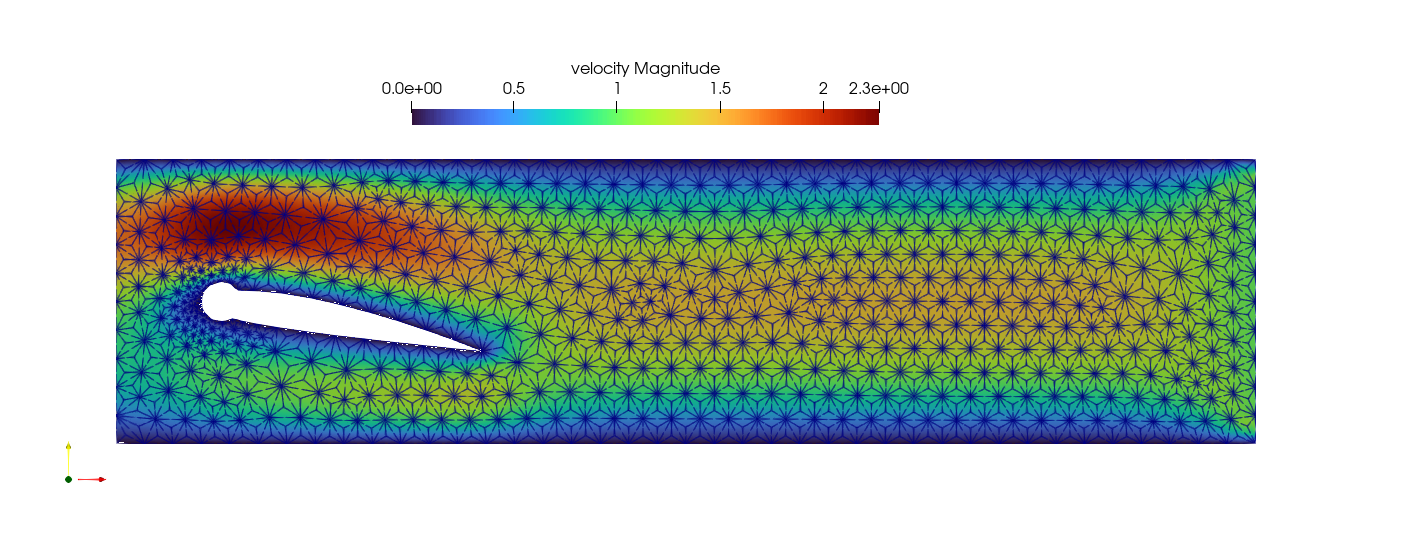
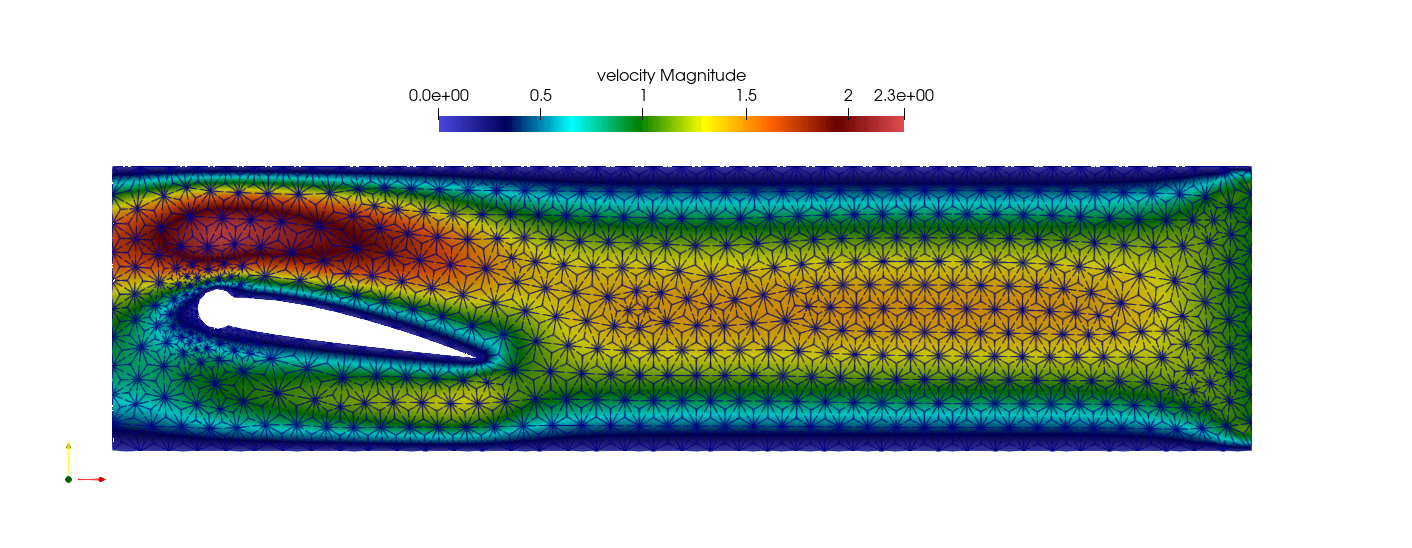
More on the draft

diff --git a/main.tex b/main.tex
@@ -2,7 +2,6 @@
 \usetheme{Frankfurt}
 \usepackage[utf8]{inputenc}
 \usepackage{charter}
-\usepackage{tikz}
 \usepackage{graphicx}
 \usepackage{amsmath}
 \usepackage{amssymb}
@@ -12,13 +11,16 @@
 \usepackage{mathtools}
 \usepackage{physics}
 \usepackage{caption}
+\usepackage{tikz}
+\usepackage{tikz-cd}
 \captionsetup[figure]{labelformat=empty}
 \mathtoolsset{showonlyrefs}
 \beamertemplatenavigationsymbolsempty
 
 \let\vec\bm
 
-
+\usepackage{tikzit}
+\input{main.tikzstyles}
 
 \pgfdeclareimage[width=\paperwidth]{titlebackground}{Images/title-slide-background.png}
 \setbeamerfont{subtitle}{size=\tiny}
@@ -229,56 +231,6 @@
 		\titlepage
 	\end{frame}
 	\begin{frame}[plain]
-		\begin{picture}(0,0)
-			\put(278,0){%
-				\pgfuseimage{ngslogo}
-			}
-			\put(-8,-5){%
-				\rule{325pt}{0.4pt}
-			}
-		\end{picture}
-		\frametitle{NETGEN}
-		$\newline$
-		$\newline$
-		NETGEN is an advancing front 2D/3D-mesh generator, with many interesting features.
-		$\newline$
-		$\newline$
-		\begin{minipage}{0.58\textwidth}
-			\begin{itemize}
-				\item[\color{oxfordblue}$\blacktriangleright$] The geometry we intend to mesh can be described by a \textbf{Constructive Solid Geometry} (CSG), in particular we can use \textbf{Opencascade} to describe our geometry.
-				\item[\color{oxfordblue}$\blacktriangleright$] It is able to construct isoparametric meshes, which conform to the geometry.
-			\end{itemize}
-		\end{minipage}
-		\qquad
-		\begin{minipage}{0.3\textwidth}
-			\begin{figure}
-				\centering
-				\includegraphics[scale=1.]{Figures/Schoeberl.jpg}
-				\begin{center}
-					\qquad\small Joachim Sc\"{o}berl
-				\end{center}
-			\end{figure}
-			\vspace{0.3cm}
-		\end{minipage}
-		\begin{picture}(0,0)
-			\put(-308,-75){%
-				\rule{325pt}{0.4pt}
-			}
-			\put(-308,-91){%
-				\pgfuseimage{mathslogo}
-			}
-			\put(-228,-91){%
-				\color{oxfordblue}\tiny\insertshortdate
-			}
-			\put(-168,-91){%
-				\color{oxfordblue}\tiny\insertshorttitle
-			}
-			\put(9,-91){%
-				\color{oxfordblue}\tiny\insertframenumber
-			}
-		\end{picture}
-	\end{frame}
-	\begin{frame}[plain]
 		\frametitle{NETGEN}
 		\ngshead
 		$\newline$
@@ -288,7 +240,7 @@
 		$\newline$
 		\begin{minipage}{0.58\textwidth}
 			\begin{itemize}
-				\item[\color{oxfordblue}$\blacktriangleright$] The geometry we intend to mesh can be described by a \textbf{Constructive Solid Geometry} (CSG), in particular we can use \textbf{Opencascade} to describe our geometry.
+				\item[\color{oxfordblue}$\blacktriangleright$] The geometry we intend to mesh can be described by \textbf{Constructive Solid Geometry} (CSG), in particular we can use \textbf{Opencascade} to describe our geometry.
 				\item[\color{oxfordblue}$\blacktriangleright$] It is able to construct isoparametric meshes, which conform to the geometry.
 			\end{itemize}
 		\end{minipage}
@@ -452,19 +404,19 @@
 	\begin{frame}
 		\frametitle{Stokes flow -- UFL}
 		$\newline$
-		\lstinputlisting[language=python,firstline=26,lastline=30]{Examples/scottVogelius.py}
+		\lstinputlisting[language=python,firstline=27,lastline=31]{Examples/scottVogelius.py}
 	\end{frame}
 	\begin{frame}
 		\frametitle{Stokes flow -- Scott--Vogelius element}
 		$\newline$
 		$\newline$
-		The first element we will use is the Scott--Vogelius pair, which is a mixed finite element of order $k$ for the velocity and order $k-1$ for the pressure.
+		We can use the Scott--Vogelius pair, which is a mixed finite element of order $k$ for the velocity and order $k-1$ for the pressure.
 		Such an element is inf-sup stable for $k \geq 2$, under certain assumptions on the mesh. Such pair is \textbf{divergence-free}.
 		\begin{minipage}{0.75\textwidth}
 			$\newline$	
 			When $k=2$ we need \textbf{Alfeld splits}.
 			\lstinputlisting[language=python,firstline=17,lastline=19]{Examples/scottVogelius.py}
-			\lstinputlisting[language=python,firstline=23,lastline=25]{Examples/scottVogelius.py}
+			\lstinputlisting[language=python,firstline=24,lastline=26]{Examples/scottVogelius.py}
 		\end{minipage}
 		\begin{minipage}{0.2\textwidth}
 			\begin{figure}
@@ -494,7 +446,7 @@
 		$\newline$
 		$\newline$
 		\begin{minipage}{0.8\textwidth}
-			\lstinputlisting[language=python,firstline=23,lastline=25]{Examples/hoodTaylor.py}
+			\lstinputlisting[language=python,firstline=24,lastline=26]{Examples/hoodTaylor.py}
 			\textbf{We lose the point-wise divergence-free property!}
 			This is not an issue because the same would happen for Scott-Vogelius on curved meshes.
 		\end{minipage}
@@ -553,7 +505,7 @@
 				\end{bmatrix}
 				\begin{bmatrix}
 					\hat{A}^{-1}& 0\\
-					0 & \hat{M}^{-1}
+					0 & -\nu \hat{M}^{-1}
 				\end{bmatrix}
 				\begin{bmatrix}
 					I & 0\\
@@ -561,7 +513,7 @@
 				\end{bmatrix}
 			\end{equation}
 			where $M$ is the mass matrix.
-			\lstinputlisting[language=python,firstline=42,lastline=46]{Examples/multigrid.py}
+			\lstinputlisting[language=python,firstline=43,lastline=47]{Examples/multigrid.py}
 		\end{minipage}
 		\begin{minipage}{0.28\textwidth}
 			\begin{figure}
@@ -606,5 +558,135 @@
 			 & - (p,\nabla \cdot \vec{v})_0 + \frac{\gamma}{2}(\nabla \cdot \vec{u},\nabla \cdot \vec{v})_0 &= (\vec{f},\vec{v})_0\\
 		\end{align*}
 		and verifying the weak divergence free constraint $(\nabla \cdot \vec{u},q)_0 = 0$, for all $(\vec{v},q) \in V_h \times Q_h$.
+	\end{frame}
+	\begin{frame}
+		\frametitle{Navier-Stokes flow -- Fieldsplit Schour preconditioner}
+		$\newline$
+		$\newline$
+		The linearized version of the Navier-Stokes equations can be written in matrix form as 
+		\vspace{-0.3cm}
+		\begin{equation}
+			\begin{bmatrix}
+				A+\gamma B^TWB& B^T \\
+				B & 0
+			\end{bmatrix}
+			\begin{bmatrix}\vec{u} \\p\end{bmatrix}=\begin{bmatrix}\vec{f} \\0\end{bmatrix}
+		\end{equation}
+		We choose as preconditioner the \textbf{fieldsplit Schur preconditioner}, i.e.
+		\vspace{-0.3cm}
+		\begin{equation}
+			\begin{bmatrix}
+				I & -\hat{A}_\gamma^{-1} B^T\\
+				0 & I
+			\end{bmatrix}
+			\begin{bmatrix}
+				\hat{A}_\gamma^{-1}& 0\\
+				0 & \hat{S}_\gamma^{-1}
+			\end{bmatrix}
+			\begin{bmatrix}
+				I & 0\\
+				-BA_\gamma^{-1} & I
+			\end{bmatrix}
+		\end{equation}
+		\begin{equation}
+			A_\gamma = A+\gamma B^TWB 	\qquad  S_\gamma = -BA_\gamma^{-1}B^T.
+		\end{equation}
+		In this case, we notice that independently of the Reynolds numbers $S_\gamma\sim - (\nu+\gamma)^{-1} M$.
+	\end{frame}
+	\begin{frame}{Navier-Stokes flow -- Augmented Lagrangian}
+		$\newline$
+		\begin{itemize}
+			\item [\color{oxfordblue}$\blacktriangleright$] The augmented Lagrangian term helps enforce the divergence-free constraint, and makes the scheme pressure robuts.
+			\item [\color{oxfordblue}$\blacktriangleright$] We can use as preconditioner
+			\begin{equation}
+				\begin{bmatrix}
+					I & -\hat{A}_\gamma^{-1} B^T\\
+					0 & I
+				\end{bmatrix}
+				\begin{bmatrix}
+					\hat{A}_\gamma^{-1}& 0\\
+					0 & -(\nu+\gamma)M^{-1}
+				\end{bmatrix}
+				\begin{bmatrix}
+					I & 0\\
+					-BA_\gamma^{-1} & I
+				\end{bmatrix}
+			\end{equation}
+			\item[\color{oxfordblue}$\blacktriangleright$] How do we compute $\hat{A}_\gamma^{-1}$ efficiently ? Can we adopt a multigrid approach ?
+		\end{itemize}
+	\end{frame}
+	\begin{frame}
+		\frametitle{Subspace correction methods for nearly singular
+problems}
+		$\newline$
+		$\newline$
+		To compute $\hat{A}_\gamma^{-1}$ we can use a subspace correction method.
+		We decompose the space $V_h$ as follows:
+		\vspace{-0.3cm}
+		\begin{equation}
+			V_h = \sum_{i=1} V_i.
+		\end{equation}
+		We consider a coarse space $V_H$ and the projection and injection operators:
+		\vspace{-0.3cm}
+		\begin{equation}
+			P_H : V_H \rightarrow V_h, \qquad I : V_h \rightarrow V_i.
+		\end{equation}
+		We then consider as smoother the additive Schwarz preconditioner defined as:
+		\begin{equation}
+			\hat{A}_\gamma^{-1} = P_H A_{\gamma,H}^{-1} P_H^T + \sum_{i=1} I_i A_{\gamma,i}^{-1} I_i^T.
+		\end{equation}
+	\end{frame}
+	\begin{frame}
+		\frametitle{Subspace correction methods for nearly singular
+problems}
+		$\newline$
+		\begin{block}{Robust relaxetion}
+			We need the discrete kernel,
+			\vspace{-0.3cm}
+			\begin{equation}
+				\mathbb{K}_h =  \{\vec{v} \in V_h : B\vec{v} = 0\},
+			\end{equation}
+			to decompose in a \textbf{stable} way as follows:
+			\vspace{-0.3cm}
+			\begin{equation}
+				\mathbb{K}_h = \sum_{i=1} \mathbb{K}_h\cap V_i.
+			\end{equation}
+		\end{block}
+	\end{frame}
+	\begin{frame}[fragile]
+		\frametitle{Robust relaxation -- Hood--Taylor}
+		\begin{equation*}
+			\begin{tikzcd}[row sep=huge]
+			0 \arrow[r,""] & \Big[H^2(\Omega)\Big]^2 \arrow[r,"\curl"] \arrow[d]& \Big[H^1_0(\Omega)\Big]^2 \arrow[r,"\div"] \arrow[d]& L^2_0(\Omega) \arrow[r,""]\arrow[d] & 0\\
+			0 \arrow[r,""] & \Big[\mathbb{P}^4(\mathcal{T}_h)\Big]^2 \arrow[r,"\curl"] & \Big[\mathbb{P}^3(\mathcal{T}_h)\Big]^2 \arrow[r,"\div"] & \mathbb{P}^2_{disc}(\mathcal{T}_h) \arrow[r,""] & 0\\
+			\end{tikzcd}
+		\end{equation*}
+		\vspace{-2cm}
+		\begin{figure}[h]
+			\centering
+			\hspace{1cm}\scalebox{0.45}{\tikzfig{Figures/DoF}}
+		\end{figure}
+	\end{frame}
+	\begin{frame}
+		\frametitle{Robust prolongation -- Hood--Taylor}
+		$\newline$
+		\begin{block}{Robust relaxetion}
+			If the space pair $(V_h,Q_h)$ is inf-sup stable and the mesh we have a robust prolongation operator defined by:
+			\begin{equation}
+				\tilde P_H \vec{u}_H - \tilde{\vec{u}}_h = \vec{u}_H-\tilde{\vec{u}}_h,
+			\end{equation}
+			where
+			\begin{equation}
+				a_{\gamma}(\tilde{\vec{u}}_h,\tilde{\vec{v}}_h) = \gamma(\nabla \cdot \tilde{\vec{u}}_h,\nabla \cdot \tilde{\vec{v}}_h)_{\pi_{Q_h}\pi{Q_h}^T} \quad \forall \tilde{\vec{v}}_h \in \tilde{V}_h,
+			\end{equation}
+			where $\pi_{Q_h}$ is the $L^2$ projection onto $Q_h$ and $\tilde{V}_h$ is the space of discrete velocity vanishing at the boundary of the coarse cells.
+		\end{block}
+	\end{frame}
+	\begin{frame}
+		\frametitle{Numerical Simulation}
+		\begin{figure}
+			\centering
+			\scalebox{0.2}{\animategraphics[loop,autoplay]{12}{Figures/NS/Velocity.}{0000}{0158}}
+		\end{figure}
 	\end{frame}
 \end{document}

diff --git a/Examples/solvers.py b/Examples/solvers.py
@@ -73,6 +73,7 @@ paramsPCDLU = {"mat_type": "matfree",
              "fieldsplit_1_pcd_Kp_pc_type": "lu",
              "fieldsplit_1_pcd_Fp_mat_type": "matfree"
 }
+
 class DGMassInv(PCBase):
     def initialize(self, pc):
         _, P = pc.getOperators()
@@ -97,11 +98,12 @@ class DGMassInv(PCBase):
     def applyTranspose(self, pc, x, y):
         raise NotImplementedError("Sorry!")
 
-if __name__ == "__main__":
-    Re = Constant(1e2)
-    gamma = Constant(10000)
-    params = (Re, gamma)
-    appctx = {"nu": 1/Re, "gamma": gamma}
+class Mass(AuxiliaryOperatorPC): 
+    def form(self, pc, test, trial):
+        appctx = self.get_appctx(pc)
+        a=-1/(appctx["gamma"]+appctx["nu"])*inner(test, trial)*dx
+        bcs = None
+        return (a, bcs)
 
 paramsALLU = {
     "snes_monitor": None,
@@ -121,7 +123,7 @@ paramsALLU = {
                         'pc_factor_mat_solver_type': 'mumps',
                         'pc_type': 'lu'},
         'fieldsplit_1': {'ksp_type': 'preonly',
-                        'pc_python_type': __name__ + '.DGMassInv',
+                        'pc_python_type': __name__ + '.Mass',
                         'pc_type': 'python'},
 
 }
@@ -151,7 +153,7 @@ paramsALMG = {
                         'pc_type': 'mg'},
 
     'fieldsplit_1': {'ksp_type': 'preonly',
-                        'pc_python_type': __name__+'.DGMassInv',
+                        'pc_python_type': __name__+'.Mass',
                         'pc_type': 'python'},
     'ksp_converged_reason': None,
     'ksp_max_it': 500,

diff --git a/Examples/NavierStokes.py b/Examples/NavierStokes.py
@@ -69,9 +69,9 @@ v, q = TestFunctions(Z)
 
 x, y = SpatialCoordinate(mesh)
 
-inflowoutflow = Function(V).interpolate(as_vector([-1, 0]))
-labelsInlet = [i+1 for i, name in enumerate(ngmesh.GetRegionNames(codim=1)) if name in ["outlet"]]
-labelsWall = [i+1 for i, name in enumerate(ngmesh.GetRegionNames(codim=1)) if name in ["wall","cyl"]]
+inflowoutflow = Function(V).interpolate(as_vector([1, 0]))
+labelsInlet = [i+1 for i, name in enumerate(ngmesh.GetRegionNames(codim=1)) if name in ["inlet"]]
+labelsWall = [i+1 for i, name in enumerate(ngmesh.GetRegionNames(codim=1)) if name in ["wall"]]
 bcs = [DirichletBC(Z.sub(0), inflowoutflow, labelsInlet),
        DirichletBC(Z.sub(0), zero(2), labelsWall)]
 nullspace = MixedVectorSpaceBasis(Z, [Z.sub(0), VectorSpaceBasis(constant=True)])
@@ -113,7 +113,9 @@ stepper = TimeStepper(F, butcher_tableau, t, dt, sol, bcs=bcs,
                       solver_parameters=params, appctx=appctx)
 
 outfile1 = File("output/NSVelocity.pvd")
+outfile2 = File("output/NSPressure.pvd")
 outfile1.write(sol.subfunctions[0], time=0)
+outfile2.write(sol.subfunctions[1], time=0)
 
 for j in range(N):
     print(GREEN % ("Computing solution at time: {}".format(float(t))))
@@ -121,4 +123,5 @@ for j in range(N):
     t.assign(float(t) + float(dt))
     
     outfile1.write(sol.subfunctions[0], time=j * float(dt))
+    outfile2.write(sol.subfunctions[1], time=j * float(dt))
 

diff --git a/Examples/multigrid.py b/Examples/multigrid.py
@@ -8,8 +8,9 @@ xNACA = naca(profile, n, False, False)[0]
 yNACA = naca(profile, n, False, False)[1]
 pnts = [Pnt(xNACA[i], yNACA[i], 0) for i in range(len(xNACA))]
 spline = SplineApproximation(pnts)
+circle = Circle(Pnt(0.37,0.5),0.07).Face()
 airfoil = Face(Wire(spline)).Move((0.3,0.5,0)).Rotate(Axis((0.3,0.5,0), Z), -10)
-shape = (Rectangle(4, 1).Face()-airfoil)
+shape = (Rectangle(4, 1).Face()-airfoil-circle)
 shape.edges.name="wall"
 shape.edges.Min(X).name="inlet"
 shape.edges.Max(X).name="outlet"
